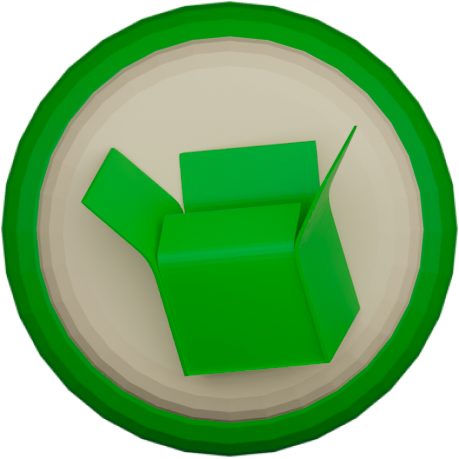
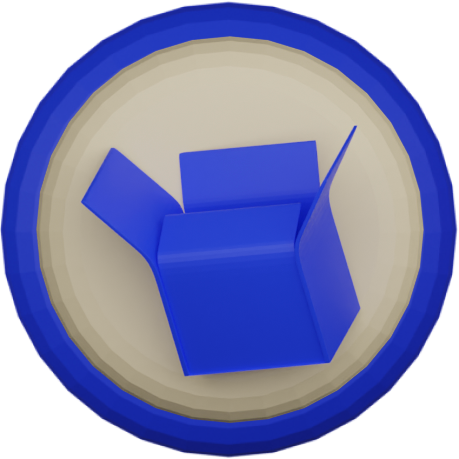
feat: update trash colors

diff --git a/packages/trashy_road/lib/src/game/entities/trash_can/trash_can.dart b/packages/trashy_road/lib/src/game/entities/trash_can/trash_can.dart
@@ -137,7 +137,7 @@ class _PaperTrashCanSpriteGroup extends SpriteComponent with HasGameReference {
 
     add(
       ColorEffect(
-        Colors.green,
+        Colors.blue,
         EffectController(
           duration: 0,
         ),
@@ -178,7 +178,7 @@ class PlasticTrashCanSpriteAnimationComponent extends SpriteAnimationComponent
 
     add(
       ColorEffect(
-        Colors.blue,
+        Colors.orange,
         EffectController(duration: 0),
         opacityTo: 0.5,
       ),
